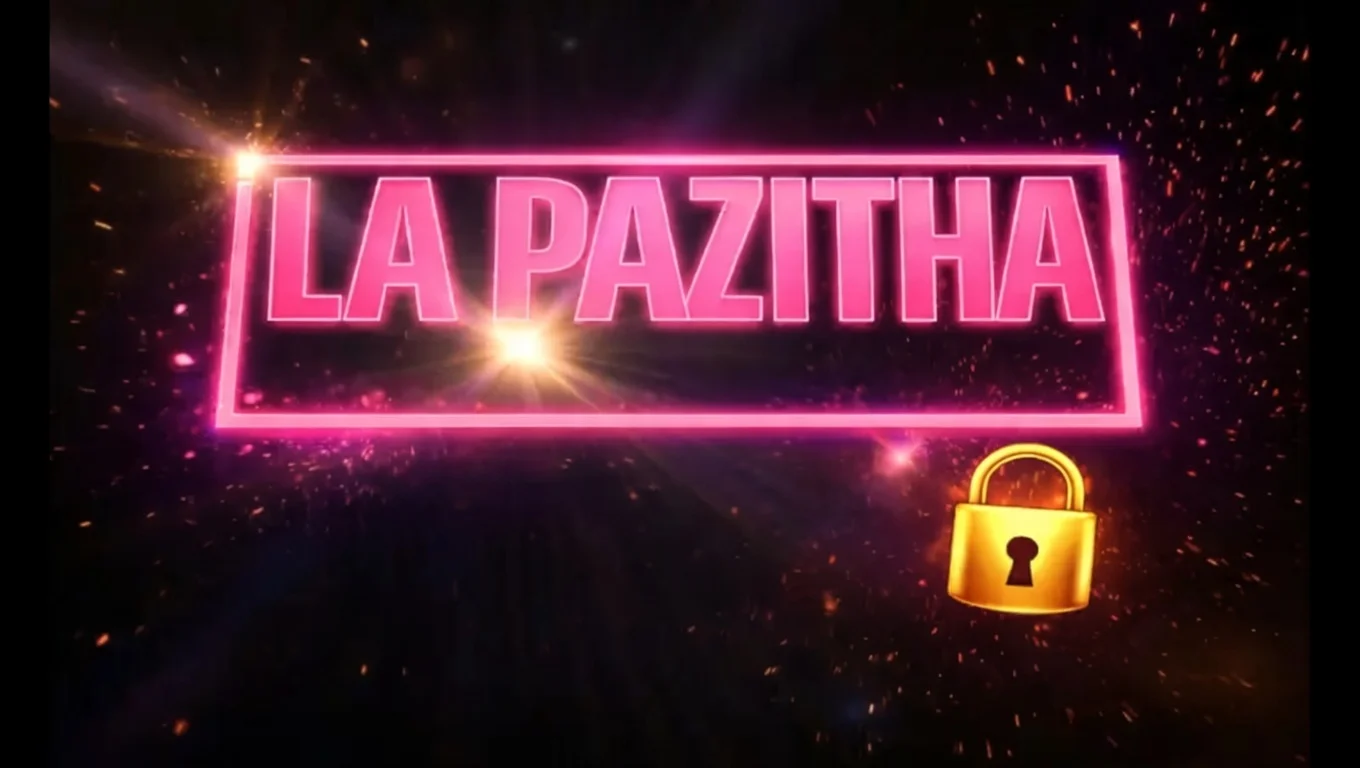
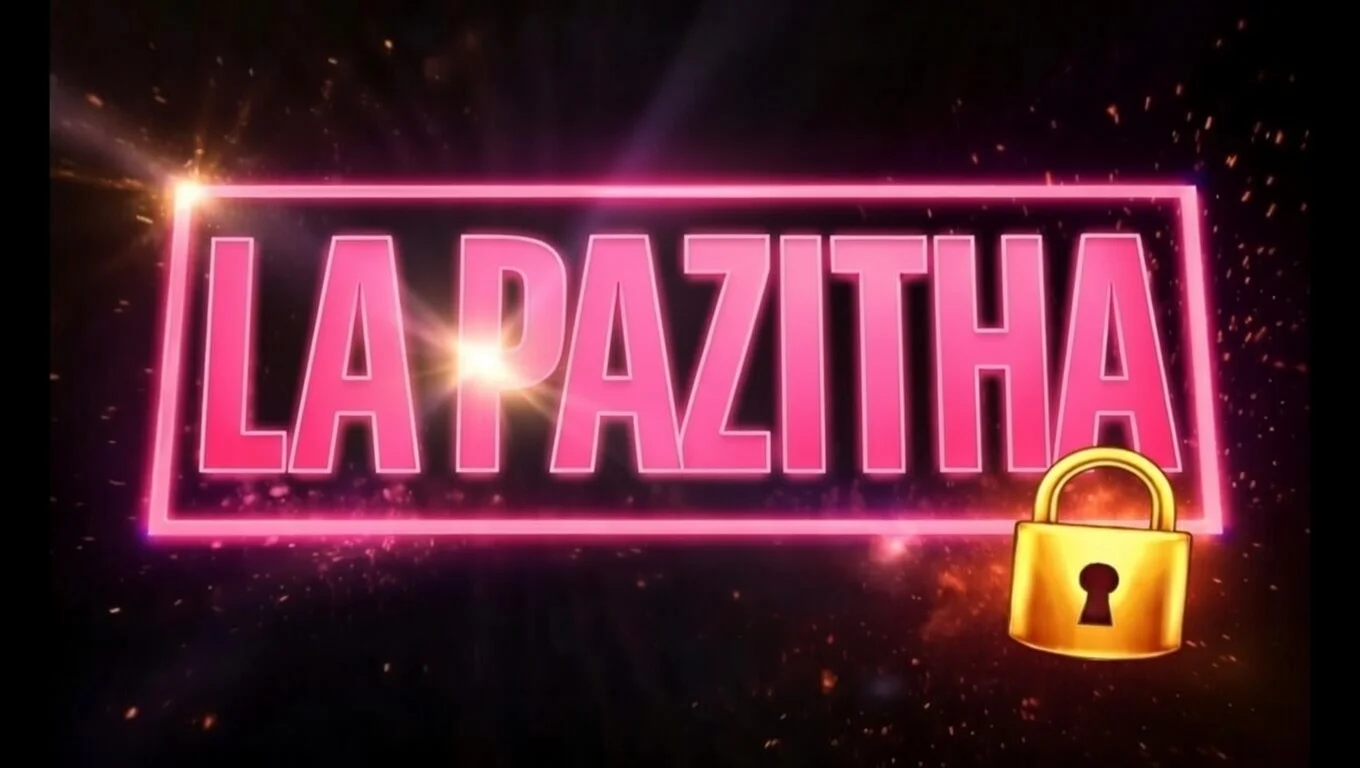
arreglo

diff --git a/index.html b/index.html
@@ -200,7 +200,7 @@
 
                 <div class="card-img-overlay">
                     <div class="post-text fw-bold">
-                        Mi contenido privado está aquí 😈
+                        Acceso a mi contenido exclusivo 🔒
                     </div>
                 </div>
 
